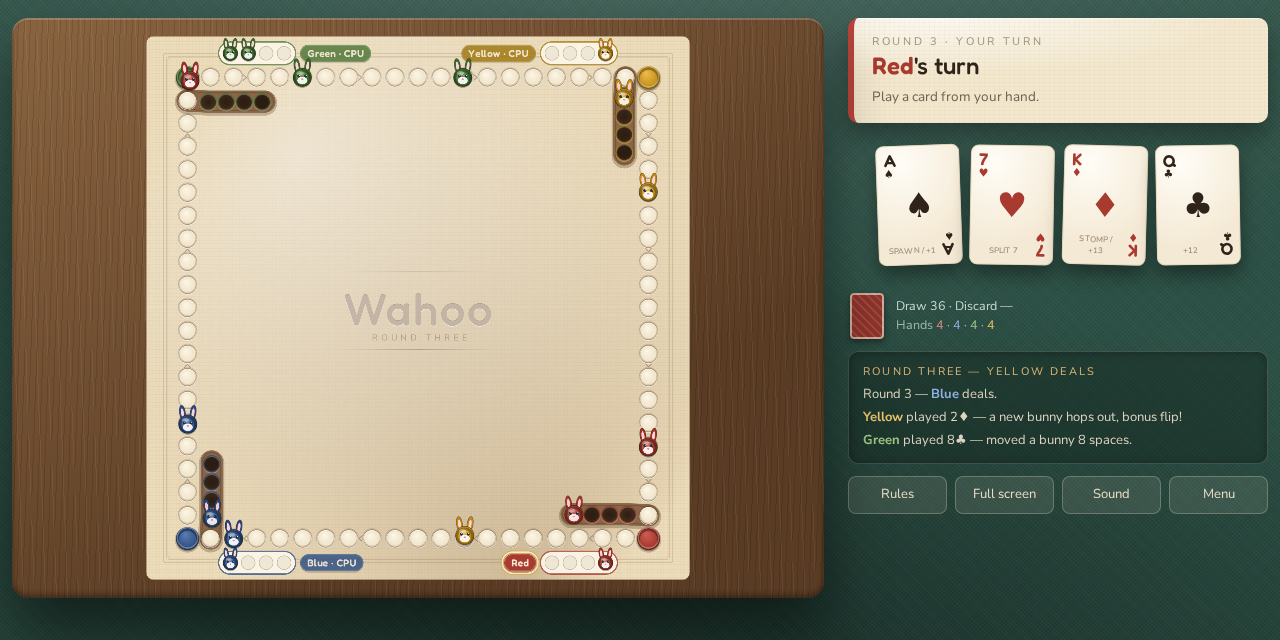
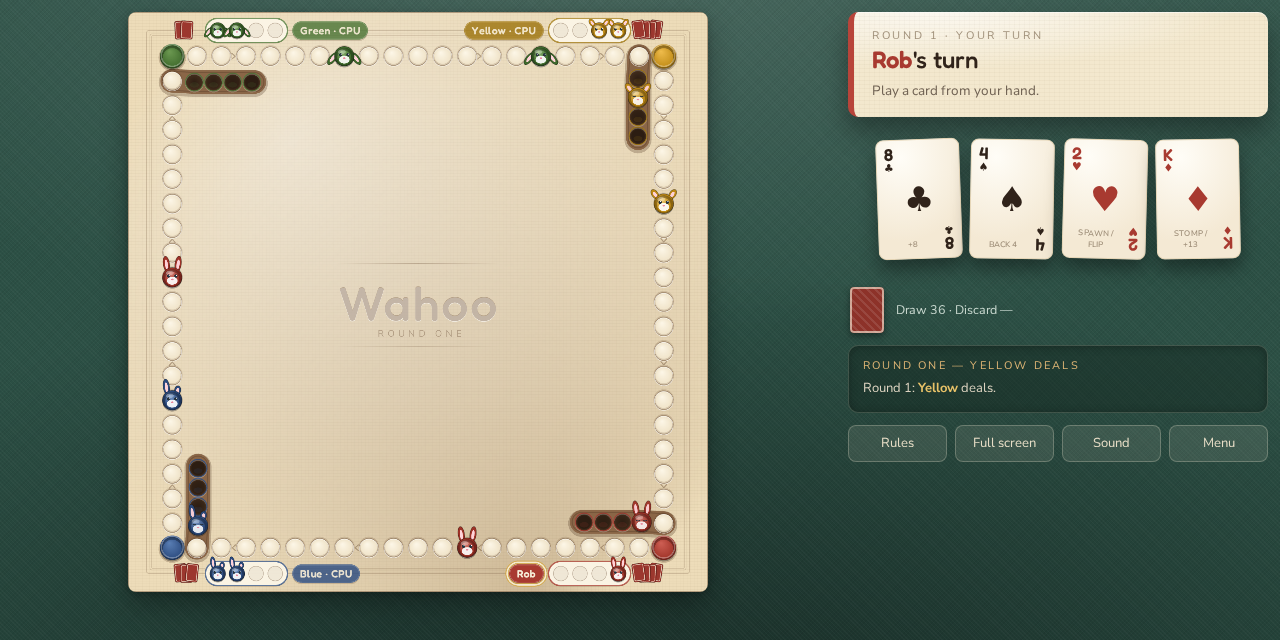
Fresh screenshots and feature notes

diff --git a/README.md b/README.md
@@ -6,7 +6,7 @@ stomping anyone who gets in the way.
 
 **Play it:** https://robloach.github.io/wahoo/
 
-![Wahoo mid-game: bunny tokens race around a laid-paper board in a wooden frame on green felt, with earthen burrows at each corner and fenced hutches for the reserves](docs/screenshot.png)
+![Wahoo mid-game: bunny tokens race around a laid-paper board on green felt, with earthen burrows at each corner, fenced hutches for the reserves, and each player's hand fanned beside their corner](docs/screenshot.png)
 
 ## Features
 
@@ -24,6 +24,13 @@ stomping anyone who gets in the way.
   a bonus flip, or a bunny getting home.
 - **Bunny reactions** — online players can fire one of five bunny faces at
   the table: cheer, laugh, gasp, smirk, or the finger.
+- **House rules** — teammate stomping, how far a 7 may split, jumping inside
+  the burrow, snappy CPU turns, an optional online turn timer, and whether
+  the finger is welcome at this table.
+- **Built for everyone** — each player's bunny has its own ear pose so pieces
+  never rely on colour alone, stomps are previewed with a danger ring before
+  you commit, the whole game plays from the keyboard, and screen readers hear
+  every move and a live description of the board.
 - **Installable PWA** — add it to a phone home screen; hot-seat and CPU games
   work fully offline.
 - **Reconnection** — refresh mid-game and rejoin your seat (a CPU covers for
